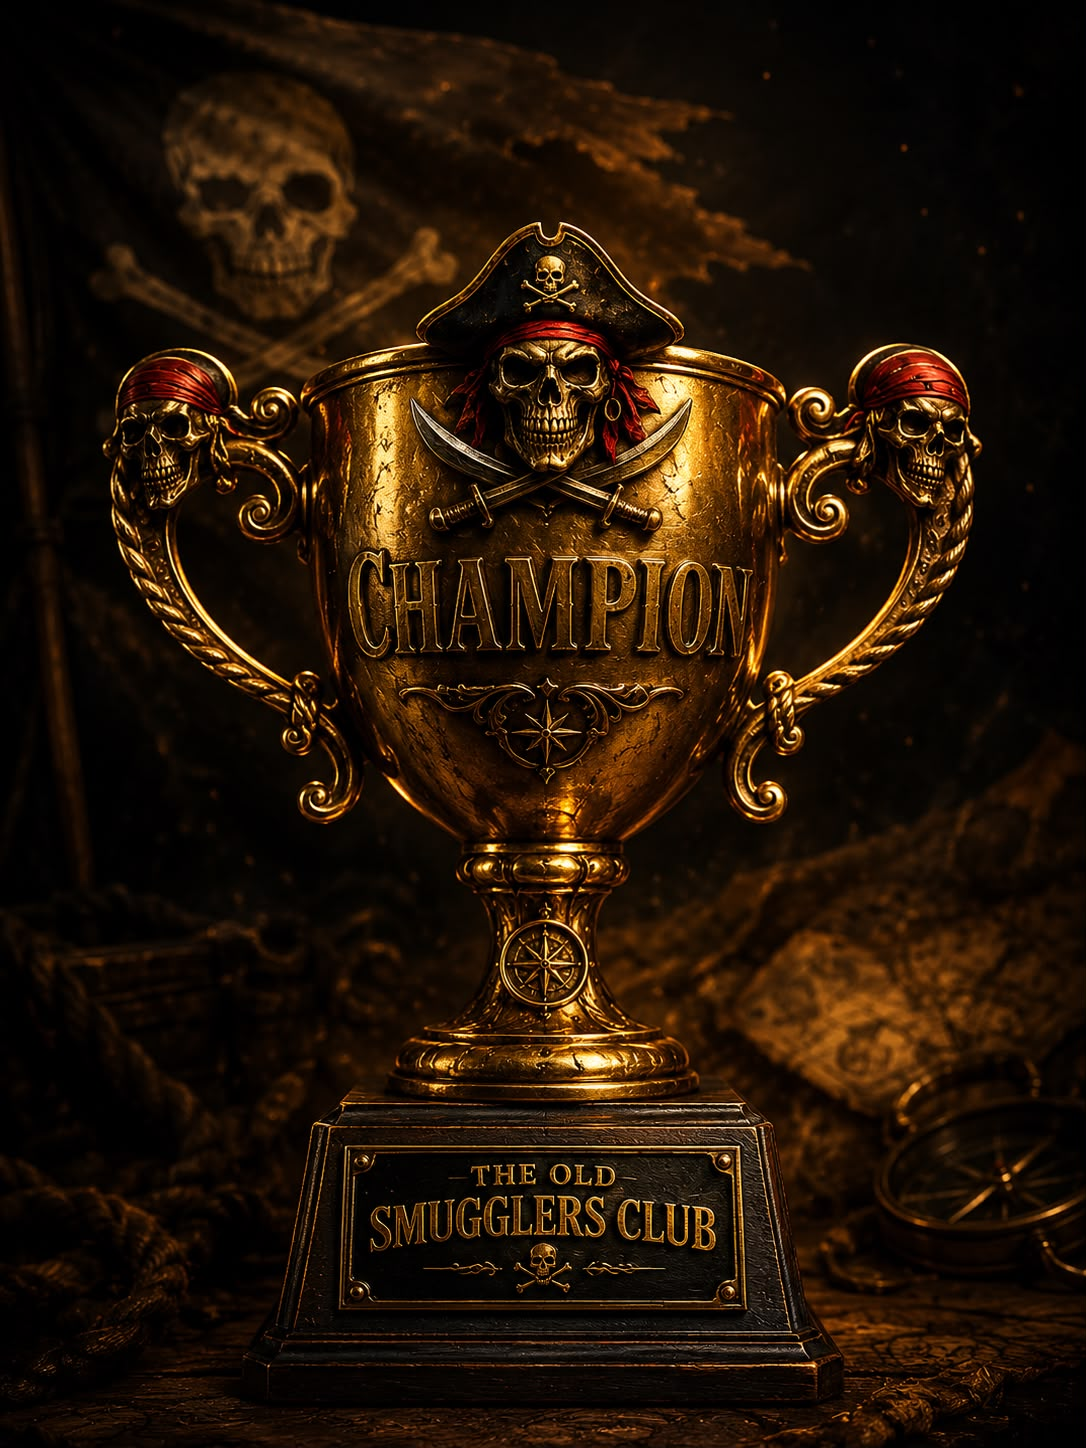
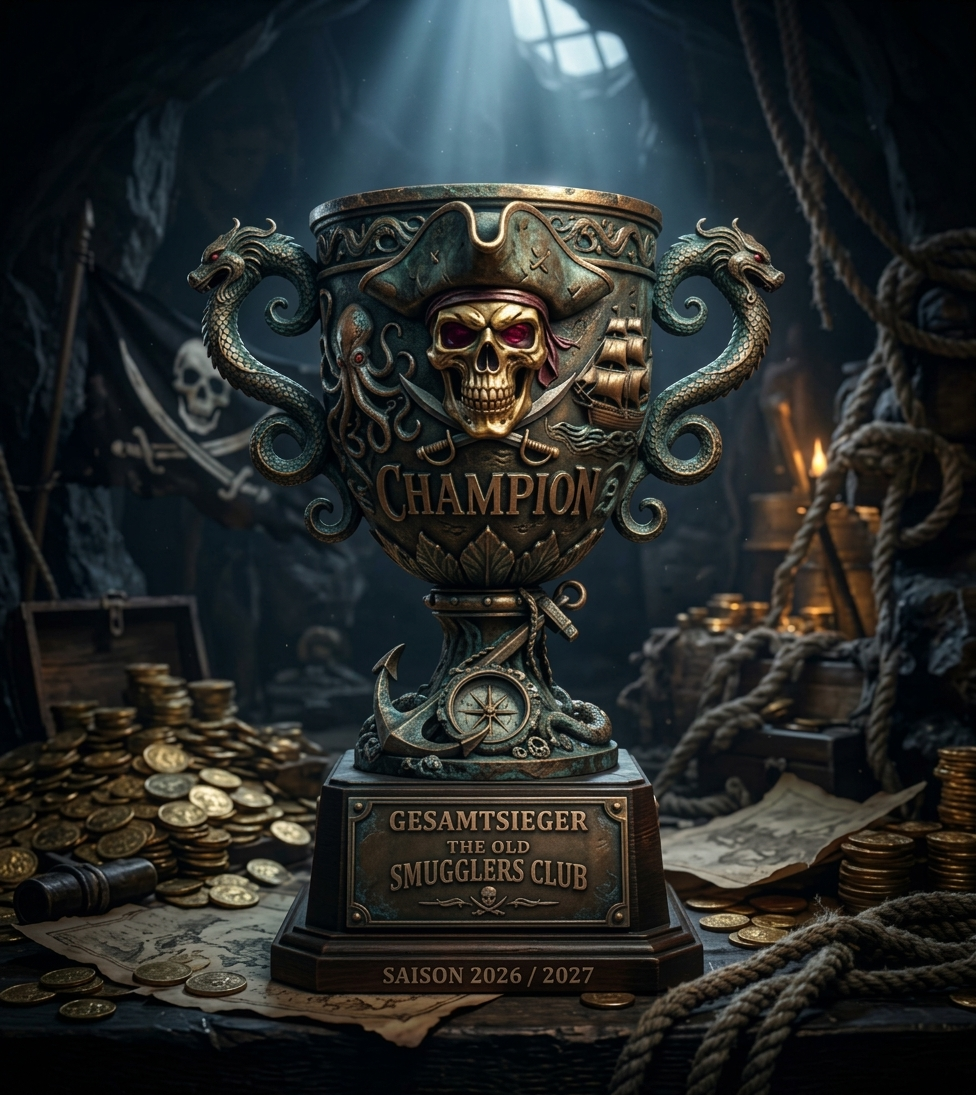
neuer Pokal

diff --git a/hall-of-fame.html b/hall-of-fame.html
@@ -10,9 +10,9 @@
     :root{--gold:#d8ad52;--light:#f2d991;--muted:#c7b89c;--line:rgba(211,164,71,.52)}
     *{box-sizing:border-box}body{margin:0;color:#f3e6c7;background:radial-gradient(circle at 80% 10%,rgba(146,91,25,.16),transparent 26%),linear-gradient(145deg,#21150d,#0b0704 62%);font-family:Georgia,"Times New Roman",serif;min-height:100vh}
     a{color:inherit}.wrap{width:min(1120px,calc(100% - 28px));margin:auto;padding:24px 0 50px}.top{display:flex;justify-content:space-between;align-items:center;gap:16px;margin-bottom:18px}.back{display:inline-flex;padding:10px 14px;border:1px solid var(--line);border-radius:8px;background:rgba(52,33,18,.86);text-decoration:none;font-weight:700}.crest{width:62px;height:62px;object-fit:contain}.hero,.panel{border:1px solid var(--line);border-radius:16px;background:linear-gradient(150deg,rgba(57,37,20,.94),rgba(17,10,6,.96));box-shadow:0 18px 42px rgba(0,0,0,.32),inset 0 1px rgba(255,255,255,.05)}
-    .hero{padding:clamp(22px,4vw,42px);text-align:center}.eyebrow{color:var(--gold);font-size:.78rem;font-weight:800;letter-spacing:.14em;text-transform:uppercase}.hero h1{margin:.35rem 0 .6rem;color:var(--light);font-size:clamp(2rem,6vw,4rem)}.hero p{max-width:720px;margin:auto;color:var(--muted);line-height:1.65}.grid{display:grid;grid-template-columns:repeat(2,minmax(0,1fr));gap:18px;margin-top:18px}.panel{padding:20px}.panel h2{margin:0 0 14px;color:var(--light);font-size:1.45rem}.champion{grid-column:1/-1;display:grid;grid-template-columns:minmax(180px,.65fr) minmax(0,1.35fr);gap:24px;align-items:center}.trophy{width:min(100%,240px);max-height:250px;object-fit:contain;justify-self:center;filter:drop-shadow(0 12px 18px rgba(0,0,0,.55))}.champion-name{margin:.2rem 0;color:#fff0b2;font-size:clamp(2rem,5vw,3.4rem)}.meta{color:var(--gold);font-weight:700}.list{display:grid;gap:10px}.row{display:flex;justify-content:space-between;gap:14px;padding:12px 13px;border:1px solid rgba(190,143,61,.34);border-radius:9px;background:rgba(12,7,4,.45)}.row span{color:var(--muted)}.row strong{text-align:right;color:#f4d68b}.open{color:#b9aa8e!important}.note{margin-top:18px;padding:15px 16px;border-left:3px solid var(--gold);background:rgba(26,16,9,.72);color:var(--muted);line-height:1.55}.pirate-note{display:grid;grid-template-columns:44px minmax(0,1fr);gap:13px;align-items:center;border-left:0}.pirate-note__emblem{width:42px;height:42px;object-fit:contain;filter:drop-shadow(0 3px 5px rgba(0,0,0,.5))}.status{margin-top:18px;text-align:center;color:#a9987d;font-size:.86rem}.hall-logbook-note{margin-top:18px}
+    .hero{padding:clamp(22px,4vw,42px);text-align:center}.eyebrow{color:var(--gold);font-size:.78rem;font-weight:800;letter-spacing:.14em;text-transform:uppercase}.hero h1{margin:.35rem 0 .6rem;color:var(--light);font-size:clamp(2rem,6vw,4rem)}.hero p{max-width:720px;margin:auto;color:var(--muted);line-height:1.65}.grid{display:grid;grid-template-columns:repeat(2,minmax(0,1fr));gap:18px;margin-top:18px}.panel{padding:20px}.panel h2{margin:0 0 14px;color:var(--light);font-size:1.45rem}.champion{grid-column:1/-1;display:grid;grid-template-columns:minmax(300px,1fr) minmax(0,1fr);gap:30px;align-items:center}.trophy{width:min(100%,430px);height:auto;max-height:480px;object-fit:contain;justify-self:center;filter:drop-shadow(0 16px 24px rgba(0,0,0,.58))}.champion-name{margin:.2rem 0;color:#fff0b2;font-size:clamp(2rem,5vw,3.4rem)}.meta{color:var(--gold);font-weight:700}.list{display:grid;gap:10px}.row{display:flex;justify-content:space-between;gap:14px;padding:12px 13px;border:1px solid rgba(190,143,61,.34);border-radius:9px;background:rgba(12,7,4,.45)}.row span{color:var(--muted)}.row strong{text-align:right;color:#f4d68b}.open{color:#b9aa8e!important}.note{margin-top:18px;padding:15px 16px;border-left:3px solid var(--gold);background:rgba(26,16,9,.72);color:var(--muted);line-height:1.55}.pirate-note{display:grid;grid-template-columns:44px minmax(0,1fr);gap:13px;align-items:center;border-left:0}.pirate-note__emblem{width:42px;height:42px;object-fit:contain;filter:drop-shadow(0 3px 5px rgba(0,0,0,.5))}.status{margin-top:18px;text-align:center;color:#a9987d;font-size:.86rem}.hall-logbook-note{margin-top:18px}
     .achievement-list .row{display:grid;grid-template-columns:minmax(150px,.85fr) minmax(0,1.15fr);align-items:center}.achievement-list .row span{line-height:1.45}.achievement-list .row strong{text-align:right}
-    @media(max-width:720px){.pirate-note{grid-template-columns:38px minmax(0,1fr);gap:11px}.pirate-note__emblem{width:36px;height:36px}.achievement-list .row{grid-template-columns:1fr}.achievement-list .row strong{text-align:left}.top{align-items:flex-start}.crest{width:50px;height:50px}.grid,.champion{grid-template-columns:1fr}.champion{text-align:center}.row{align-items:flex-start;min-width:0;display:grid;grid-template-columns:minmax(0,1fr) auto}.row span,.row strong{min-width:0;overflow-wrap:normal;word-break:normal;hyphens:none}.row strong{font-size:.96rem}.wrap{width:min(100% - 20px,1120px);padding-top:14px}}@media(max-width:560px){.row{grid-template-columns:1fr}.row strong{text-align:left}.panel h2{font-size:1.35rem}}
+    @media(max-width:720px){.champion .trophy{width:min(100%,340px);max-height:360px}.pirate-note{grid-template-columns:38px minmax(0,1fr);gap:11px}.pirate-note__emblem{width:36px;height:36px}.achievement-list .row{grid-template-columns:1fr}.achievement-list .row strong{text-align:left}.top{align-items:flex-start}.crest{width:50px;height:50px}.grid,.champion{grid-template-columns:1fr}.champion{text-align:center}.row{align-items:flex-start;min-width:0;display:grid;grid-template-columns:minmax(0,1fr) auto}.row span,.row strong{min-width:0;overflow-wrap:normal;word-break:normal;hyphens:none}.row strong{font-size:.96rem}.wrap{width:min(100% - 20px,1120px);padding-top:14px}}@media(max-width:560px){.row{grid-template-columns:1fr}.row strong{text-align:left}.panel h2{font-size:1.35rem}}
   </style>
   <link rel="stylesheet" href="./legal.css">
   <link rel="stylesheet" href="./site-navigation.css?v=4.9.2-HF12-HF85">
@@ -22,7 +22,7 @@
     <div class="top"><a class="back tosmc-nav-button tosmc-nav-button--back" href="./index.html#hall-of-fame">Zurück zur Startseite</a><img class="crest" src="./club-crest.svg" alt="Wappen des Old Smugglers Club"></div>
     <header class="hero"><div class="eyebrow">Ehrenlogbuch der Crew</div><h1>Hall of Fame</h1><p>Die bestätigten Titel, Saisonssieger und Rekorde des Old Smugglers Club. Offene Wettbewerbe werden erst nach ihrer offiziellen Auswertung eingetragen.</p></header>
     <section class="grid">
-      <article class="panel champion"><img class="trophy" src="./champion-trophy.jpeg" alt="Champion-Pokal"><div><div class="eyebrow">Aktueller Champion</div><h2 class="champion-name" id="championName">Manuel</h2><div class="meta" id="championMeta">Gesamtwertung · Gesamtchampion · 2025/2026</div><p id="championLabel">Old Smugglers Saison-Champion</p></div></article>
+      <article class="panel champion"><img class="trophy" src="./champion-trophy.jpeg?v=4.9.2-HF12-HF98-TEST1" alt="Champion-Pokal"><div><div class="eyebrow">Aktueller Champion</div><h2 class="champion-name" id="championName">Manuel</h2><div class="meta" id="championMeta">Gesamtwertung · Gesamtchampion · 2025/2026</div><p id="championLabel">Old Smugglers Saison-Champion</p></div></article>
       <article class="panel"><h2>Gesamt-Team-Sieger</h2><div class="list"><div class="row"><span id="teamChampionSeason">Gesamt-Team-Sieger</span><strong id="teamChampionName" class="open">Keine Vorsaisonwertung</strong></div></div><div class="note pirate-note"><img class="pirate-note__emblem" src="./club-crest.svg" alt="" aria-hidden="true"><span>Diese Kachel zeigt ausschließlich den Team-Sieger der gesamten Saison. Team-Sieger einzelner Wettbewerbe werden nicht in die Hall of Fame übernommen.</span></div></article><article class="panel"><h2>Titelkabinett</h2><div class="list" id="titles"></div></article>
       <article class="panel"><h2>Meisterchronik</h2><div class="list" id="chronicle"></div></article>
       <article class="panel"><h2>Rekordtafel</h2><div class="list" id="records"></div></article>

diff --git a/index.html b/index.html
@@ -1012,7 +1012,7 @@
       position: relative;
       display: grid;
       place-items: center;
-      min-height: 310px;
+      min-height: 360px;
       margin: .15rem 0 .8rem;
       border-radius: 14px;
       background:
@@ -1035,8 +1035,9 @@
     .trophy {
       position: relative;
       z-index: 1;
-      width: min(92%, 420px);
-      height: 300px;
+      width: min(98%, 520px);
+      height: auto;
+      max-height: 440px;
       margin: 0 auto;
       object-fit: contain;
       border-radius: 14px;
@@ -1922,11 +1923,13 @@
       }
 
       .trophy-stage {
-        min-height: 230px;
+        min-height: 300px;
       }
 
       .trophy {
-        height: 220px;
+        width: min(98%, 340px);
+        height: auto;
+        max-height: 285px;
       }
 
       .honour-card {
@@ -5601,12 +5604,13 @@
     /* HF3 – Champion-Pokal Desktop: größer, vollständig sichtbar */
     @media (min-width: 769px) {
       #hall-of-fame .trophy-stage {
-        min-height: 430px;
+        min-height: 560px;
       }
 
       #hall-of-fame .trophy {
-        width: min(94%, 560px);
-        height: 410px;
+        width: min(98%, 620px);
+        height: auto;
+        max-height: 540px;
         object-fit: contain;
         object-position: center;
       }
@@ -6071,7 +6075,7 @@
 
           <div class="trophy-stage">
             <img class="trophy"
-                 src="./champion-trophy.jpeg"
+                 src="./champion-trophy.jpeg?v=4.9.2-HF12-HF98-TEST1"
                  alt="Champion-Pokal des Old Smugglers Club"
                  onerror="this.style.display='none';this.nextElementSibling.hidden=false;"
                  loading="lazy" decoding="async">

diff --git a/RELEASE_NOTES_4.9.2-HF12-HF98-TEST1.md b/RELEASE_NOTES_4.9.2-HF12-HF98-TEST1.md
@@ -1,0 +1,12 @@
+# Test2v2 4.9.2-HF12-HF98-TEST1
+
+## Champion-Pokal / Hall of Fame
+- Neues freigegebenes Champion-Pokalbild als `champion-trophy.jpeg`.
+- Startseite: Pokal nutzt die vorhandene Champion-Kachel deutlich stärker aus, bleibt aber vollständig sichtbar (`object-fit: contain`).
+- Mobile: eigene Größenbegrenzung, damit Bild und Beschriftung vollständig im Fenster bleiben.
+- Ehrenlogbuch: Champion-Bereich erhält mehr Bildfläche; keine Änderung an Hall-of-Fame-Datenlogik.
+- Cache-Buster direkt am Pokalbild auf beiden Seiten.
+
+## Schutz
+- Keine produktiven JSON-Dateien verändert.
+- Keine Scorer-, Wettbewerbs-, Ranking- oder Admin-Logik verändert.
